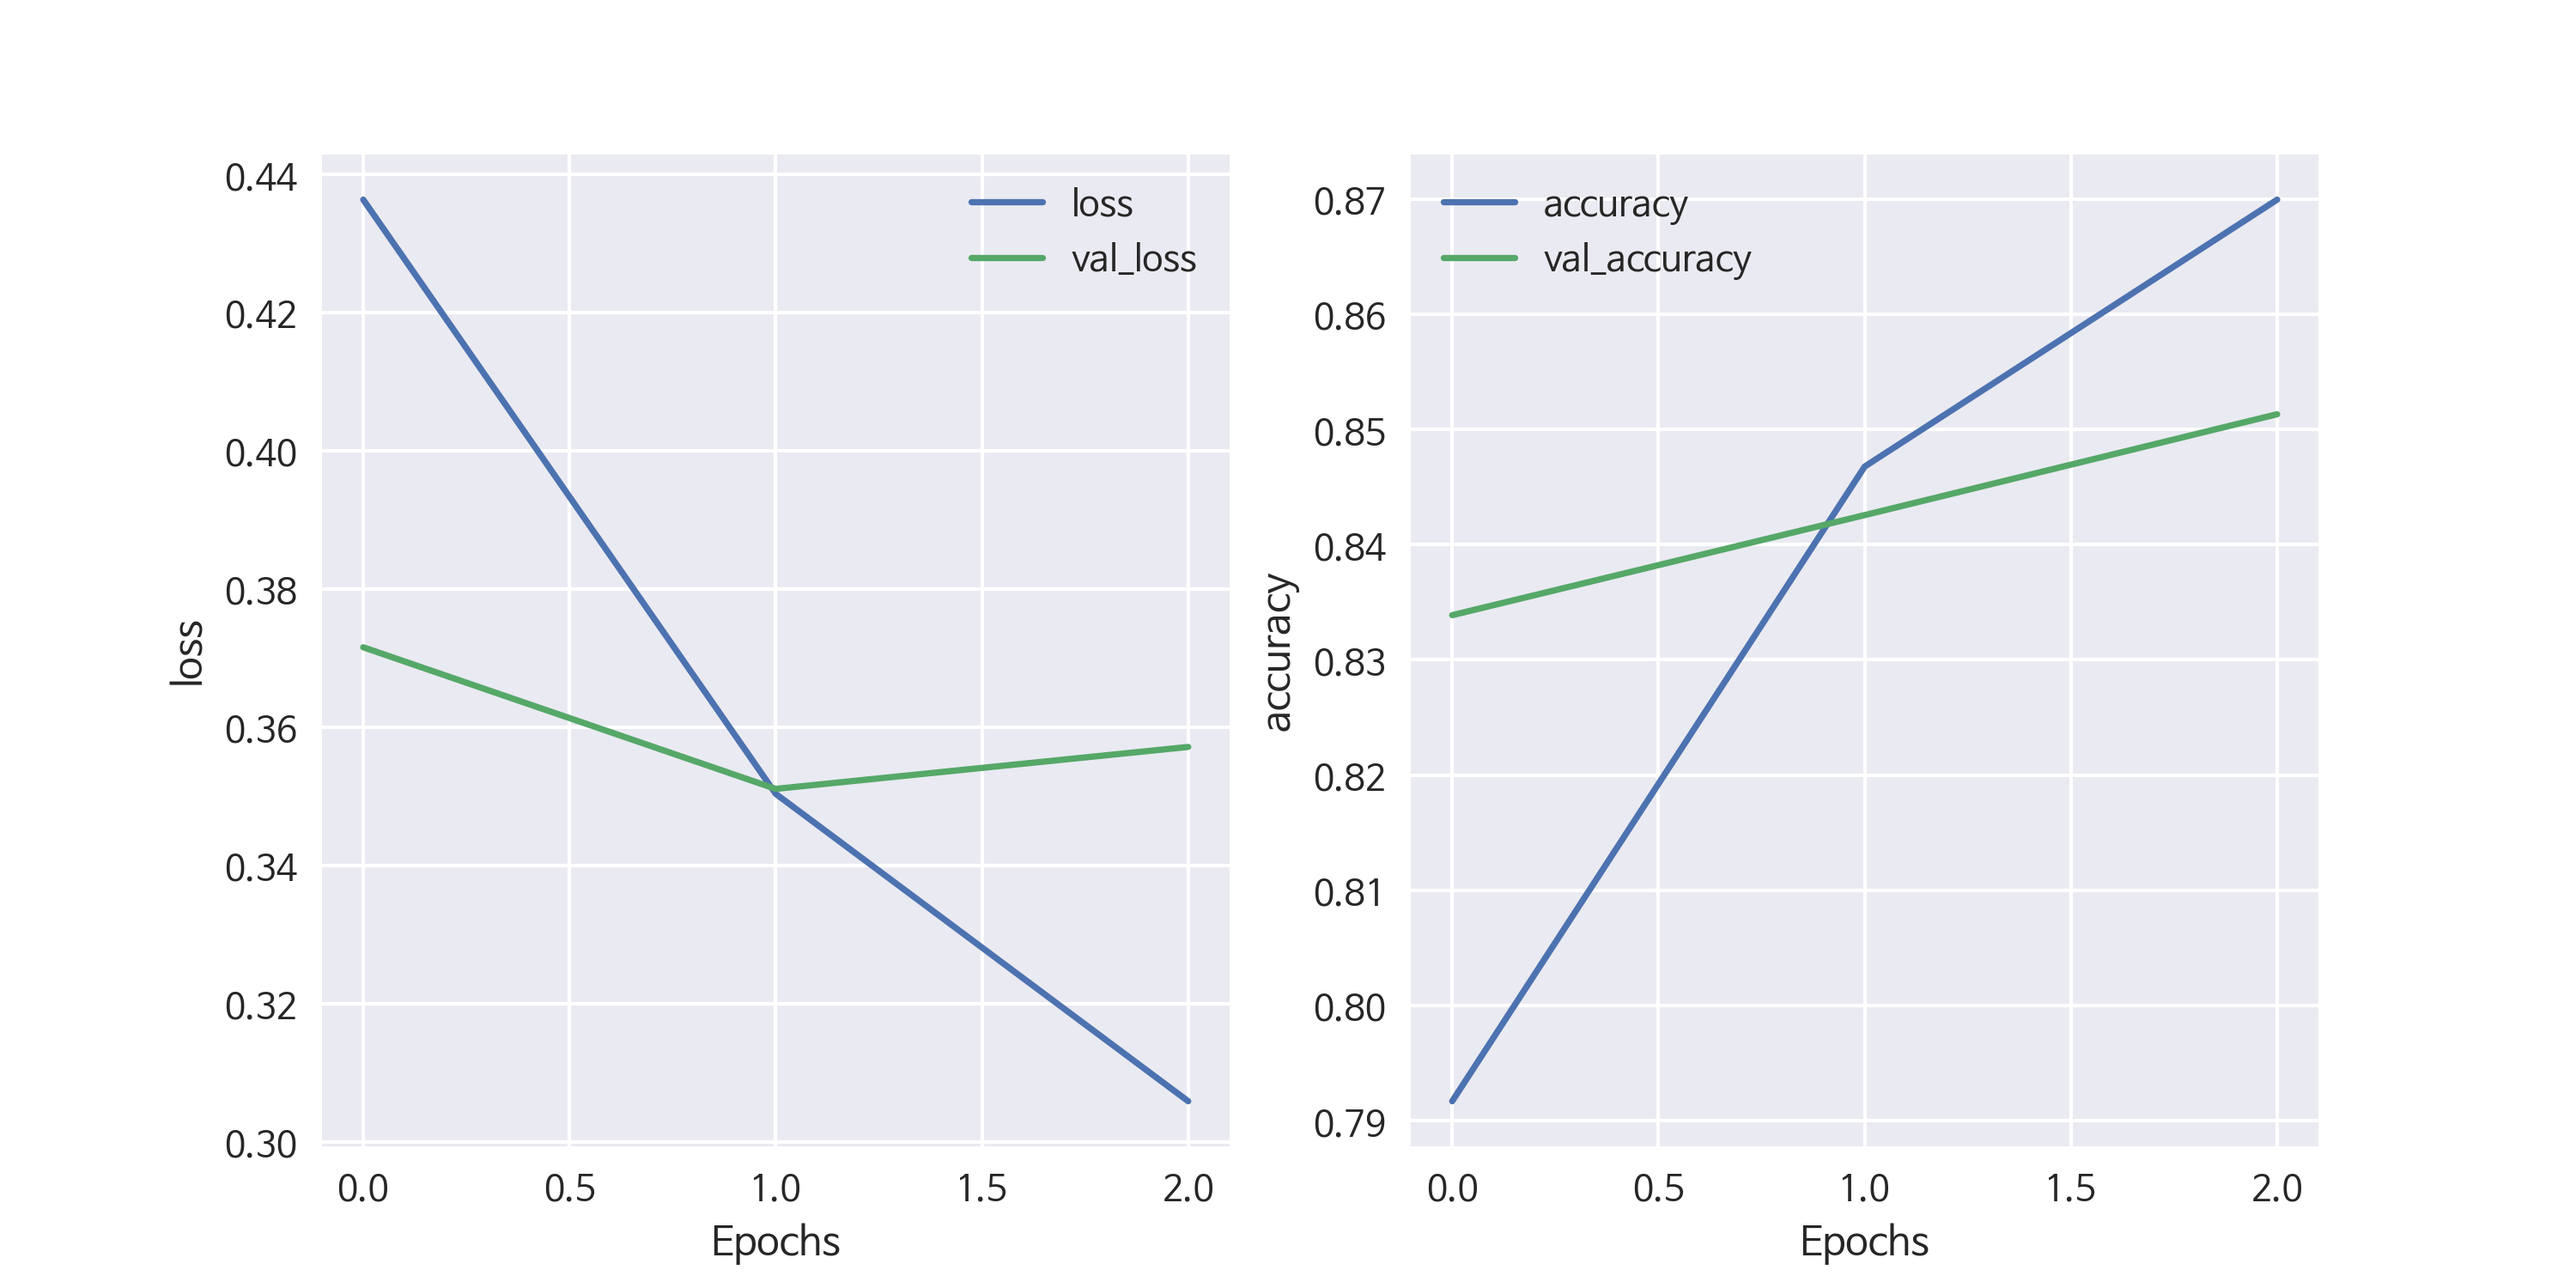
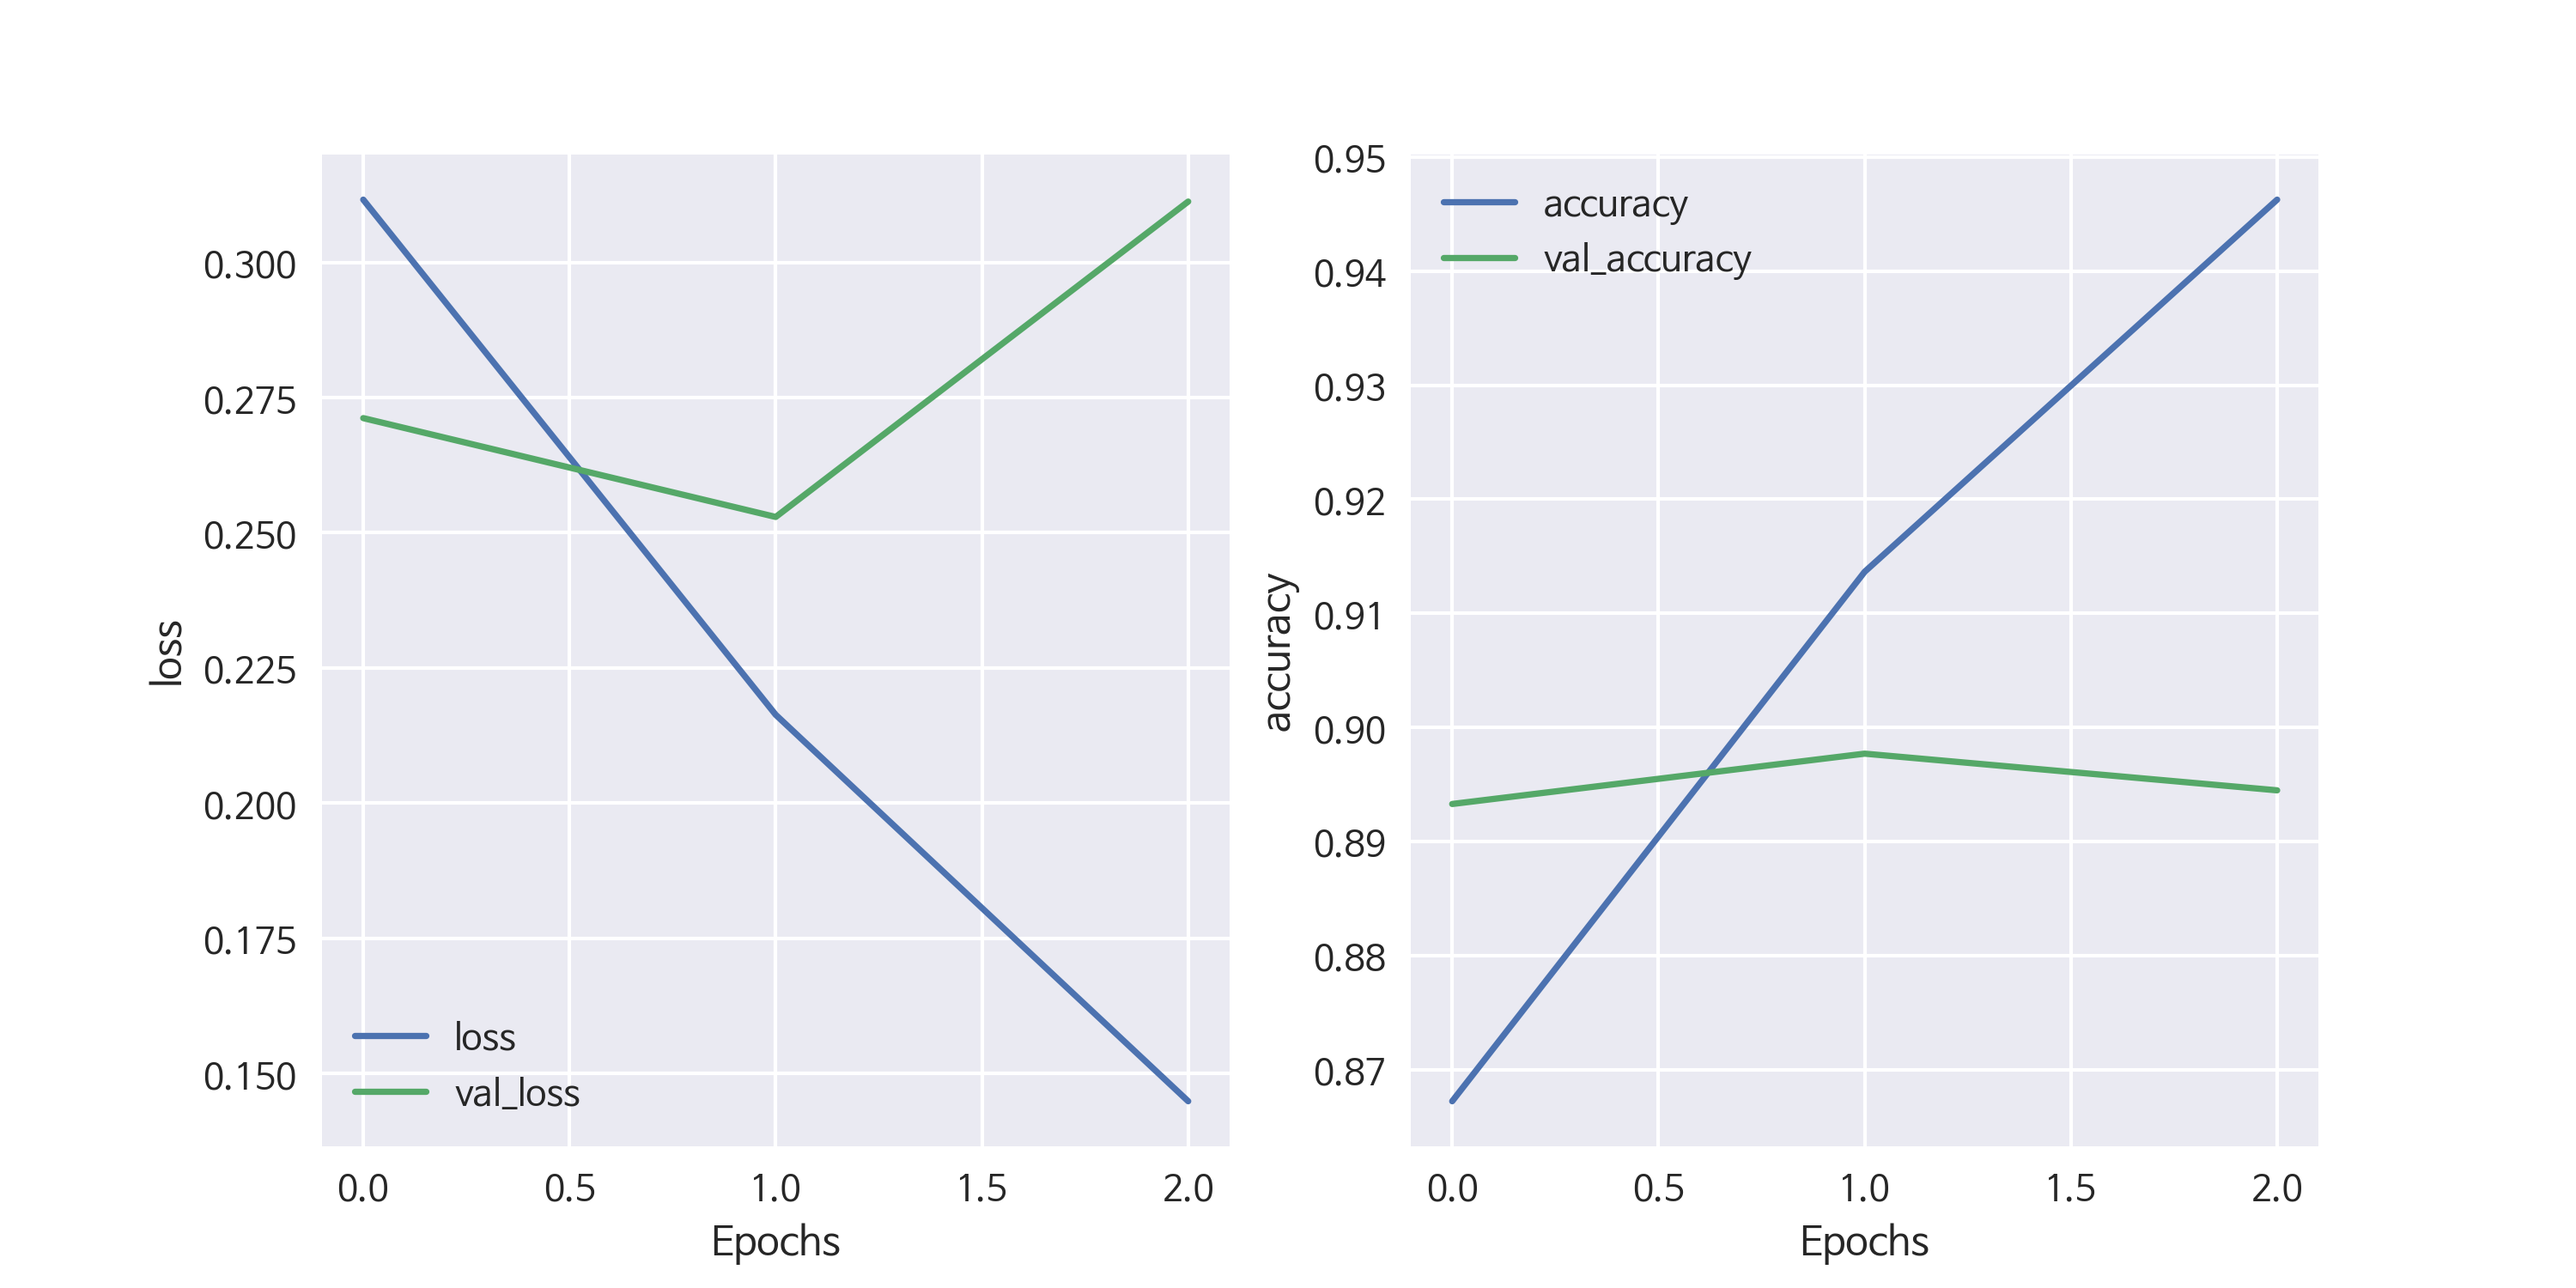
nlp_suan, bert

diff --git a/src/00. SuanLab/14. bert.py b/src/00. SuanLab/14. bert.py
@@ -40,14 +40,29 @@ print(train_data.head())
 
 
 epochs = 3
-batch_size = 32
+batch_size = 64
 max_len = 40
 num_classes = 2
 
-tokenizer = AutoTokenizer.from_pretrained(
-    "bert-base-multilingual-cased", cache_dir="../data/bert_multi", do_lower_case=False
-)
-model = TFAutoModel.from_pretrained("bert-base-multilingual-cased", cache_dir="../data/bert_multi")
+
+model_name = "klue/bert-base"
+cache_dir = "../data/klue-bert-base"
+weights_file = "../data/bert_nsmc_klue.h5"
+train_np_file = "../data/bert_klue_train.npy"
+test_np_file = "../data/bert_klue_test.npy"
+
+tokenizer = AutoTokenizer.from_pretrained(model_name, cache_dir=cache_dir, do_lower_case=False)
+model = TFAutoModel.from_pretrained(model_name, cache_dir=cache_dir, from_pt=True)
+
+
+# model_name = "bert-base-multilingual-cased"
+# cache_dir = "../data/bert_multi"
+# weights_file = "../data/bert_base_multi.h5"
+# train_np_file = "../data/bert_base_train.npy"
+# test_np_file = "../data/bert_base_test.npy"
+
+# tokenizer = AutoTokenizer.from_pretrained(model_name, cache_dir=cache_dir, do_lower_case=False)
+# model = TFAutoModel.from_pretrained(model_name, cache_dir=cache_dir)
 
 
 def bert_tokenizer(sentence, max_len=max_len):
@@ -80,7 +95,7 @@ def prepare_nsmc_tokens(data, filename):
     np.save(filename, (input_ids, attention_masks, token_type_ids))
 
 
-filename = "../data/bert_nsmc_train.npy"
+filename = train_np_file
 if not os.path.exists(filename):
     prepare_nsmc_tokens(train_data, filename)
 input_ids, attention_masks, token_type_ids = np.load(filename)
@@ -149,7 +164,7 @@ classification_model.compile(optimizer=optimizer, loss=loss, metrics=[metric])
 callbacks = [
     EarlyStopping(monitor="val_accuracy", min_delta=0.0001, patience=2),
     ModelCheckpoint(
-        "../data/bert_nsmc_hug.h5",
+        weights_file,
         monitor="val_accuracy",
         verbose=1,
         save_best_only=True,
@@ -157,28 +172,28 @@ callbacks = [
     ),
 ]
 
-# history = classification_model.fit(
-#     x=train_inputs,
-#     y=train_labels,
-#     epochs=epochs,
-#     batch_size=batch_size,
-#     validation_split=0.2,
-#     callbacks=callbacks,
-# )
+history = classification_model.fit(
+    x=train_inputs,
+    y=train_labels,
+    epochs=epochs,
+    batch_size=batch_size,
+    validation_split=0.2,
+    callbacks=callbacks,
+)
 
-# names = ["loss", "accuracy"]
-# plt.figure(figsize=(10, 5))
-# for i, name in enumerate(names):
-#     plt.subplot(1, 2, i + 1)
-#     plt.plot(history.history[name])
-#     plt.plot(history.history[f"val_{name}"])
-#     plt.xlabel("Epochs")
-#     plt.ylabel(name)
-#     plt.legend([name, f"val_{name}"])
-# plt.savefig("images/14-bert_nsmc_loss", dpi=300)
+names = ["loss", "accuracy"]
+plt.figure(figsize=(10, 5))
+for i, name in enumerate(names):
+    plt.subplot(1, 2, i + 1)
+    plt.plot(history.history[name])
+    plt.plot(history.history[f"val_{name}"])
+    plt.xlabel("Epochs")
+    plt.ylabel(name)
+    plt.legend([name, f"val_{name}"])
+plt.savefig("images/14-bert_nsmc_loss", dpi=300)
 
 
-filename = "../data/bert_nsmc_test.npy"
+filename = test_np_file
 if not os.path.exists(filename):
     prepare_nsmc_tokens(test_data, filename)
 input_ids, attention_masks, token_type_ids = np.load(filename)
@@ -187,7 +202,7 @@ test_inputs = (input_ids, attention_masks, token_type_ids)
 test_labels = test_data["label"].to_numpy()
 print(f"Test Sentences: {len(input_ids)}\tLabels: {len(test_labels)}")
 
-classification_model.load_weights("../data/bert_nsmc_hug.h5")
+classification_model.load_weights(weights_file)
 
 results = classification_model.evaluate(x=test_inputs, y=test_labels, batch_size=1024)
 print("test loss, test acc: ", results)
